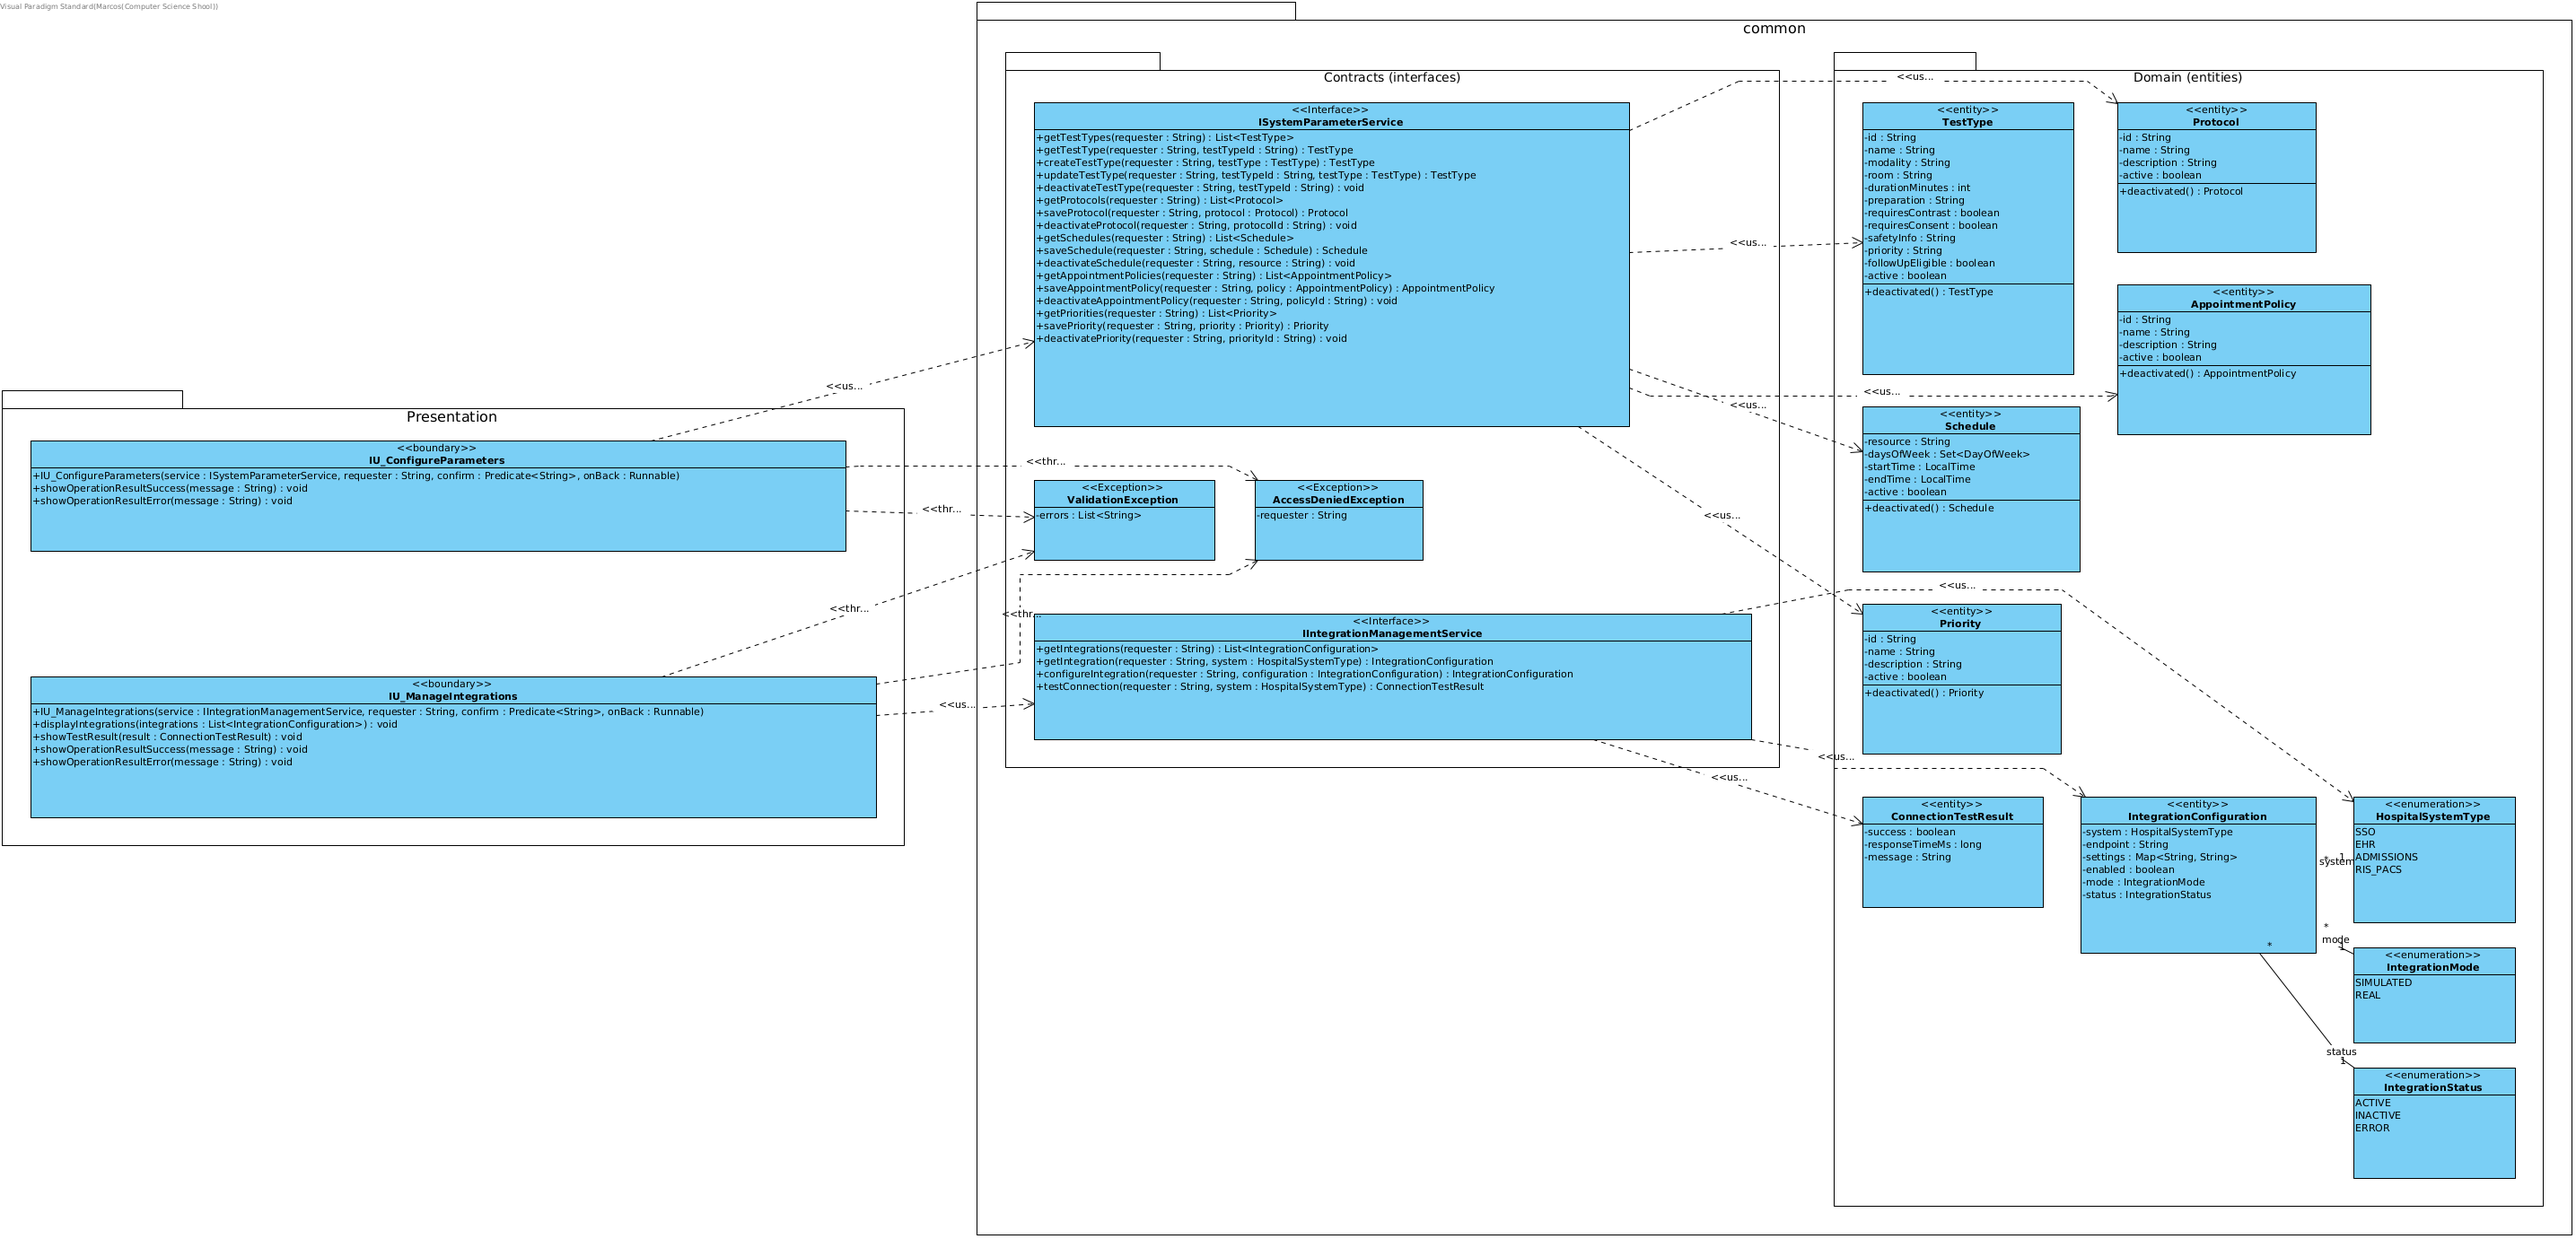
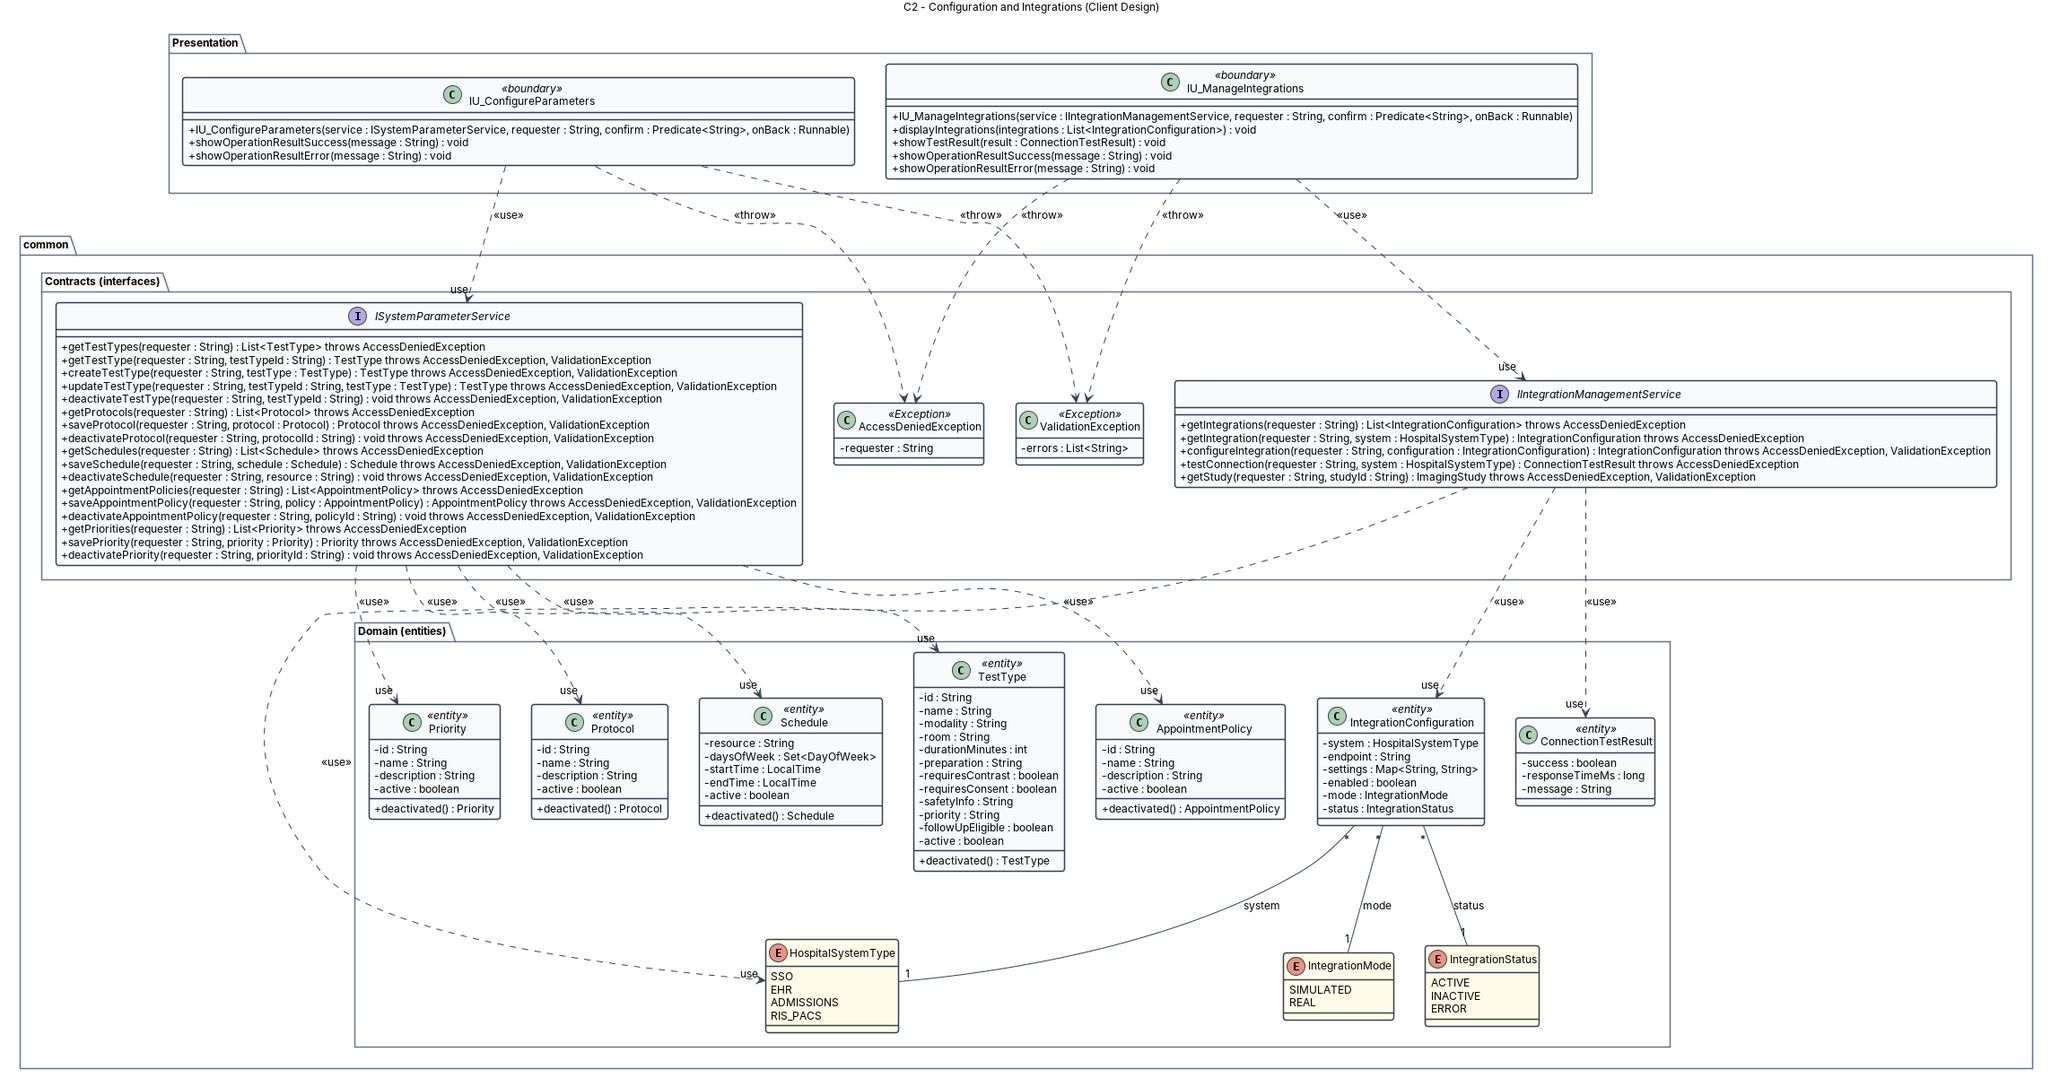
docs(UC09): design C7 diagnostic reports and C2 getStudy (#193)

diff --git a/doc/plans/C7-design.md b/doc/plans/C7-design.md
@@ -87,7 +87,7 @@ Open items of #193 §10 and AN-C7 D57–D67, answered by Denis (owner of C7 Desi
 | `doc/design/common/C2-common.puml` | update (Step 2) | `ImagingStudy`; `getStudy` in `IIntegrationManagementService` |
 | `doc/design/C2-server-design.puml` | update (Step 2) | `getStudy` in `IntegrationManagementService`, `IRisPacsGateway`, `RisPacsGatewaySimulator` |
 | `doc/design/C7-server-design.png`, `doc/design/C7-client-design.png` | create | Previews rendered with `plantuml -tpng` (D-046), shown in *Design diagrams* below |
-| Patched C2/C5 PNGs | update (Step 3) | Re-rendered previews of the patched diagrams |
+| `doc/design/C2-server-design.png`, `C2-client-design.png`, `C5-server-design.png`, `C5-client-design.png` | update | Re-rendered from the patched `.puml` files (D-046) |
 
 *(Rule 23 / D-048: `AGENTS.md`, `DECISIONS.md`, `agents/*.md` and `.github/` are not modified in this branch.)*
 
@@ -200,7 +200,7 @@ All validation errors of one call are collected into one `ValidationException`; 
 
 ---
 
-## Design diagrams (Step 1 – UC10)
+## Design diagrams (UC10 and UC09)
 
 Rendered previews of the `.puml` files (D-046). The `.puml` files are the source of truth; the PNGs are regenerated
 with `plantuml -tpng` whenever they change.
@@ -219,18 +219,18 @@ Source: [`C7-client-design.puml`](../design/C7-client-design.puml)
 
 ## Steps
 Tick each step with the hash of its commit.
-- [ ] 1. **UC10 (C7 `1.0.0`):** this plan (with the *Design diagrams* previews); `C7-common.puml`, `C7-server-design.puml`, `C7-client-design.puml` (UC10 scope); `C5-common.puml`, `C5-server-design.puml` (EXECUTED, `getAppointment`, `markAppointmentExecuted`); `C7-context.md`; `C7-server-design.png`, `C7-client-design.png`.
-- [ ] 2. **UC09 (C7 `1.1.0`):** extend the C7 files with `DiagnosticReport`, `ReportStatus`, `Addendum`, the views, `IDiagnosticReportService`, `DiagnosticReportService`, repositories and `IU_DiagnosticReports`; `C2-common.puml`, `C2-server-design.puml` (`ImagingStudy`, `getStudy`).
-- [ ] 3. **Previews:** re-render `C7-server-design.png`, `C7-client-design.png` with UC09 and the patched C2/C5 PNGs with `plantuml -tpng`, and update *Design diagrams*.
+- [x] 1. **UC10 (C7 `1.0.0`):** this plan (with the *Design diagrams* previews); `C7-common.puml`, `C7-server-design.puml`, `C7-client-design.puml` (UC10 scope); `C5-common.puml`, `C5-server-design.puml` (EXECUTED, `getAppointment`, `markAppointmentExecuted`); `C7-context.md`; `C7-server-design.png`, `C7-client-design.png`. (`9c2b659`)
+- [x] 2. **UC09 (C7 `1.1.0`):** extend the C7 files with `DiagnosticReport`, `ReportStatus`, `Addendum`, the views, `IDiagnosticReportService`, `DiagnosticReportService`, repositories and `IU_DiagnosticReports`; `C2-common.puml`, `C2-server-design.puml` (`ImagingStudy`, `getStudy`); C7, C2 and C5 PNGs re-rendered.
+- [ ] 3. **Sync with `develop`:** after #186 (C6 design) is merged, `git merge origin/develop` and re-render the C5 and C7 PNGs so `Appointment` shows `confirmedByPatient`. Skipped if this PR is merged first.
 
 ## Verification
-- [ ] Every flow and alternative of UC10 and UC09 in AN-C7 (msgs and 3a…48c) maps to an operation, a rule or a text of this plan.
-- [ ] All `!includesub` references resolve; the four diagrams render without errors.
-- [ ] `C7-context.md` follows `CONTEXT-TEMPLATE.md` and cites its sources.
-- [ ] No shared process files changed (rule 23, D-048).
+- [x] Every flow and alternative of UC10 and UC09 in AN-C7 (msgs and 3a…48c) maps to an operation, a rule or a text of this plan.
+- [x] All `!includesub` references resolve; the C7, C2 and C5 diagrams render without errors.
+- [x] `C7-context.md` follows `CONTEXT-TEMPLATE.md` and cites its sources.
+- [x] No shared process files changed (rule 23, D-048).
 
 ## Status
-- **In progress:** Step 1
-- **Next step:** review of this plan and the UC10 diagrams by Denis
+- **In progress:** nothing
+- **Next step:** review of PR #225 (`Refs #193, #194, #197`); after the merge, tick *Design* on #193, #194, #197 and ask the owners of C1, C2, C3 and C5 for the D-036 code patches
 - **Open questions:** none
 - **Last update:** 25/11/2026, Denis Ionescu

diff --git a/doc/plans/C7-context.md b/doc/plans/C7-context.md
@@ -8,7 +8,7 @@
 |---|---|
 | **Component** | C7 Execution and reports · module `c7-reports` · UC10 → 1.0.0, UC09 → 1.1.0 ([agents/components.md](../../agents/components.md)) |
 | **Iteration** | It7 · Milestone 4 · component issue #193 |
-| **Last update** | 25/11/2026, Denis Ionescu, `feature/c7-design` (design) |
+| **Last update** | 25/11/2026, Denis Ionescu, pull request #225 (design) |
 
 ## Decisions that apply
 - D-011 – Only UC10 and UC09 are modelled in It7 (AN-C7 D56).
@@ -36,9 +36,9 @@
 ## Approved design (`doc/design/`)
 | Side | Classes | File |
 |---|---|---|
-| common | `ProcedureExecution`, `ExecutionFormView`, `IProcedureExecutionService` (UC09 types added in step 2) | `common/C7-common.puml` |
-| server | `ProcedureExecutionService`, `IProcedureExecutionRepository`, `InMemoryProcedureExecutionRepository` | `C7-server-design.puml` |
-| client | `IU_RecordExecution` | `C7-client-design.puml` |
+| common | `ProcedureExecution`, `ExecutionFormView`, `IProcedureExecutionService` (UC10); `DiagnosticReport`, `ReportStatus`, `Addendum`, `ReportableExecutionView`, `ReportWorkspaceView`, `IDiagnosticReportService` (UC09); `ImagingStudy` in `common/C2-common.puml` | `common/C7-common.puml` |
+| server | `ProcedureExecutionService`, `DiagnosticReportService`, `IProcedureExecutionRepository`, `IDiagnosticReportRepository`, `IAddendumRepository` and their `InMemory*` classes | `C7-server-design.puml` |
+| client | `IU_RecordExecution`, `IU_DiagnosticReports` | `C7-client-design.puml` |
 
 ## Sub-issues
 | Issue | Branch | Status |
